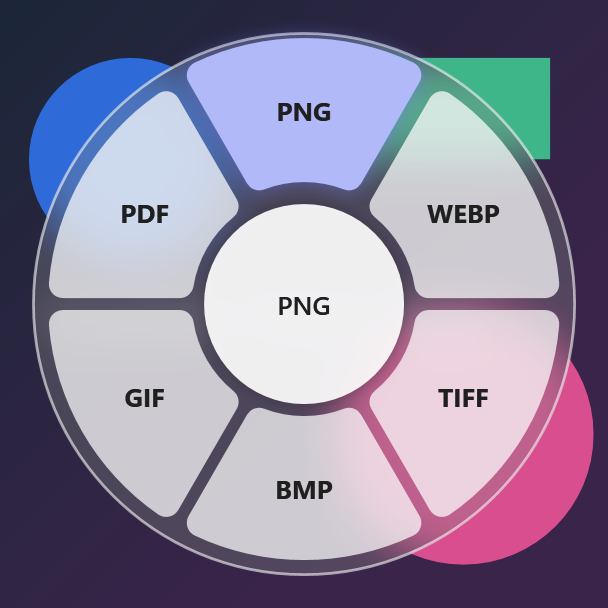
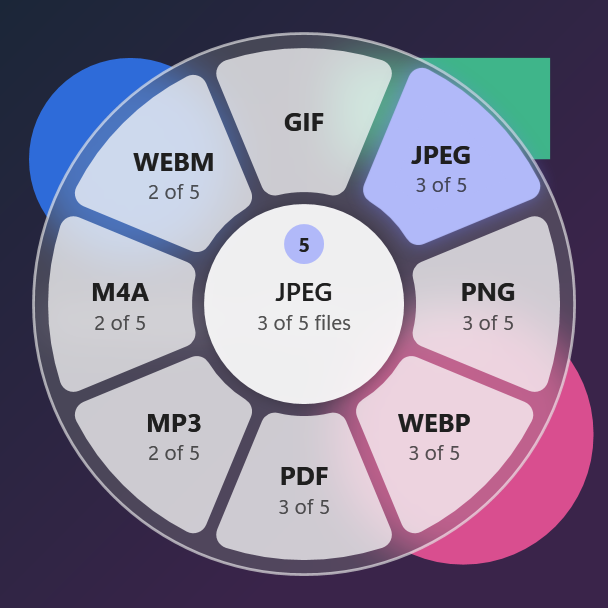
Segments is the default style; find bundled FFmpeg through winget's alias
- New installs (and unreadable settings) use the Segments overlay; Settings
  lists it first; README hero shows it.
- FfmpegLocator resolves the exe's symbolic link first: started through
  winget's command alias, the base directory was WinGet\Links, so the
  bundled engines\ffmpeg.exe was missed (and another package's could win).
- Version 0.1.1.

diff --git a/src/DragConvert.App/Windows/SettingsWindow.xaml b/src/DragConvert.App/Windows/SettingsWindow.xaml
@@ -19,8 +19,8 @@
         </ComboBox>
         <TextBlock Text="Overlay style:" TextWrapping="Wrap" Margin="0,4,0,4" />
         <ComboBox x:Name="RendererBox" SelectionChanged="OnChanged" Margin="0,0,0,16" AutomationProperties.Name="Overlay style">
-            <ComboBoxItem Content="Glass" Tag="glass" />
             <ComboBoxItem Content="Segments" Tag="segments" />
+            <ComboBoxItem Content="Glass" Tag="glass" />
             <ComboBoxItem Content="Ring" Tag="layered" />
         </ComboBox>
 

diff --git a/src/DragConvert.Providers/Ffmpeg/FfmpegLocator.cs b/src/DragConvert.Providers/Ffmpeg/FfmpegLocator.cs
@@ -1,7 +1,7 @@
 namespace DragConvert.Providers.Ffmpeg;
 
 /// <summary>
-/// Finds ffmpeg.exe: the DRAGCONVERT_FFMPEG environment variable, next to the app, the repo's tools/bin
+/// Finds ffmpeg.exe: the DRAGCONVERT_FFMPEG environment variable, next to the app (or the exe a link points to), the repo's tools/bin
 /// (development), then PATH.
 /// </summary>
 public static class FfmpegLocator
@@ -16,11 +16,14 @@ public static class FfmpegLocator
         }
 
         string baseDir = AppContext.BaseDirectory;
-        foreach (string candidate in new[] { Path.Combine(baseDir, executableName), Path.Combine(baseDir, "engines", executableName) })
+        foreach (string dir in AppDirectories(baseDir))
         {
-            if (File.Exists(candidate))
+            foreach (string candidate in new[] { Path.Combine(dir, executableName), Path.Combine(dir, "engines", executableName) })
             {
-                return candidate;
+                if (File.Exists(candidate))
+                {
+                    return candidate;
+                }
             }
         }
 
@@ -39,5 +42,31 @@ public static class FfmpegLocator
             .Split(Path.PathSeparator, StringSplitOptions.RemoveEmptyEntries | StringSplitOptions.TrimEntries)
             .Select(d => Path.Combine(d, executableName))
             .FirstOrDefault(File.Exists);
+    }
+
+    /// <summary>
+    /// The real app folder first: started through a symbolic link (winget's command alias in WinGet\Links), the base
+    /// directory is the link's folder, which may hold other packages' ffmpeg.exe.
+    /// </summary>
+    private static IEnumerable<string> AppDirectories(string baseDir)
+    {
+        if (Environment.ProcessPath is { } process)
+        {
+            FileSystemInfo? target = null;
+            try
+            {
+                target = File.ResolveLinkTarget(process, returnFinalTarget: true);
+            }
+            catch (IOException)
+            {
+            }
+
+            if (target is not null && Path.GetDirectoryName(target.FullName) is { } real)
+            {
+                yield return real;
+            }
+        }
+
+        yield return baseDir;
     }
 }

diff --git a/src/DragConvert.App/App.xaml.cs b/src/DragConvert.App/App.xaml.cs
@@ -272,7 +272,7 @@ public partial class App : Application
     /// </summary>
     private static OverlayRenderer RendererFor(AppSettings settings) =>
         SystemParameters.HighContrast ? OverlayRenderer.Layered
-        : Enum.TryParse(settings.Renderer, ignoreCase: true, out OverlayRenderer r) && Enum.IsDefined(r) ? r : OverlayRenderer.Glass;
+        : Enum.TryParse(settings.Renderer, ignoreCase: true, out OverlayRenderer r) && Enum.IsDefined(r) ? r : OverlayRenderer.Segments;
 
     /// <summary>On Windows "N" editions without Media Foundation, MP4 (h264_mf) can't encode: hide it.</summary>
     private static async Task ProbeH264Async(IReadOnlyList<IConversionProvider> converters, FormatCatalog catalog)

diff --git a/src/DragConvert.Core/Settings/AppSettings.cs b/src/DragConvert.Core/Settings/AppSettings.cs
@@ -27,7 +27,7 @@ public sealed record AppSettings
     public bool SendToMenu { get; init; } = true;
 
     /// <summary>Overlay style: "glass", "segments" or "layered" (ring). Applied immediately when changed.</summary>
-    public string Renderer { get; init; } = "glass";
+    public string Renderer { get; init; } = "segments";
 
     /// <summary>Folder outputs go to, or null for "beside each original".</summary>
     public string? OutputDirectory =>

diff --git a/README.md b/README.md
@@ -15,7 +15,7 @@
 ![Offline](https://img.shields.io/badge/runs-100%25%20offline-2EA44F)
 [![License: MIT](https://img.shields.io/badge/license-MIT-blue)](LICENSE)
 
-<img src="docs/images/overlay-glass.png" width="420" alt="The glass overlay showing target formats for a mixed drop of five files">
+<img src="docs/images/overlay-segments.png" width="420" alt="The Segments overlay showing target formats for a mixed drop of five files">
 
 </div>
 
@@ -35,13 +35,13 @@ original file is never touched.
   overwritten; a crash leaves no half-written files behind.
 - **Light on resources.** Idle at 0% CPU and a few MB of working set; the mouse hook steps aside for fullscreen
   apps, games and remote-desktop sessions.
-- **Three overlay styles**, switchable live in Settings, following Windows' light, dark and high-contrast themes:
+- **Three overlay styles** (Segments by default, Glass and Ring), switchable live in Settings, following Windows' light, dark and high-contrast themes:
 
 <div align="center">
-<img src="docs/images/overlay-segments.png" width="260" alt="Segments style">&nbsp;
+<img src="docs/images/overlay-glass.png" width="260" alt="Glass style">&nbsp;
 <img src="docs/images/overlay-ring.png" width="260" alt="Ring style">&nbsp;
 <img src="docs/images/overlay-tools.png" width="260" alt="Tools dial on a PDF">
-<br><sub>Segments · Ring · Tools (Alt) on a PDF</sub>
+<br><sub>Glass · Ring · Tools (Alt) on a PDF</sub>
 </div>
 
 ## What it converts

diff --git a/docs/decisions/0005-ui-pass.md b/docs/decisions/0005-ui-pass.md
@@ -40,7 +40,7 @@ Status: accepted, pending the owner's review of the look
 - **Acrylic panel showed flat grey**: DWM draws system backdrops only for *active* windows, and the overlay is
   never activated. Fix: send `WM_NCACTIVATE(TRUE)` after showing and swallow `WM_NCACTIVATE(FALSE)`; the frame looks
   active, focus never moves. Verified with a desktop screenshot (`--preview-overlay=dwm`).
-- **New "Glass" style (now the default)**, modelled on the owner's reference: a translucent blue disc with a rim
+- **New "Glass" style (the default until Addendum 3)**, modelled on the owner's reference: a translucent blue disc with a rim
   highlight, a darker inner disc with a large icon and count badge, round glass bubbles with labels, and a bright
   glowing bubble on hover.
 - **Round blur**: every Windows blur API blurs the whole window *rectangle*. Tried and rejected, each verified with
@@ -82,3 +82,5 @@ Status: accepted, pending the owner's review of the look
   sits inside the centre circle.
 - It uses the same frosted backdrop and brightness-aware darkening as Glass. Hit testing is by angle, as for the
   other styles.
+- **Segments is the default style** (owner's choice, 2026-10-19), for new installs and unreadable settings. Glass
+  and Ring remain in Settings; saved settings keep their choice.
